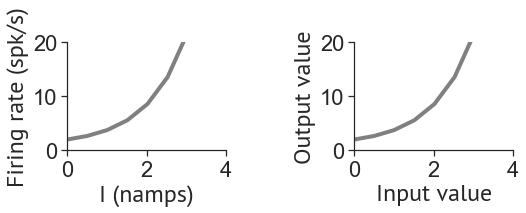
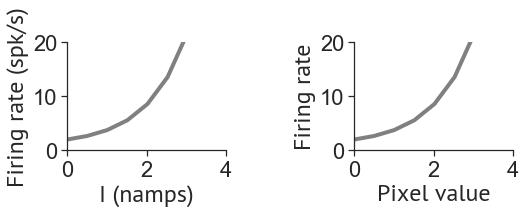
Full draft complete

Changed region(s): [[0.5475, 0.1408, 0.6084, 0.7887], [0.6996, 0.8732, 0.943, 0.9577]]

diff --git a/talk.tex b/talk.tex
@@ -57,7 +57,7 @@
 \end{columns}
 \end{frame}
 
-\begin{frame}[fragile]{Nine recognition.}
+\begin{frame}[fragile]{What are ANNs?}
 \begin{columns}
 \column{0.5\textwidth}
 \begin{figure}
@@ -71,7 +71,7 @@
 \end{frame}
 
 
-\begin{frame}[fragile]{Digit recognition.}
+\begin{frame}[fragile]{What are ANNs?}
 \begin{columns}
 \column{0.5\textwidth}
 \centering
@@ -82,7 +82,7 @@
 \end{columns}
 \end{frame}
 
-\begin{frame}[fragile]{Digit recognition.}
+\begin{frame}[fragile]{What are ANNs?}
 \begin{columns}
 \column{0.5\textwidth}
 \centering
@@ -93,35 +93,44 @@
 \end{columns}
 \end{frame}
 
-\begin{frame}[fragile]{Digit recognition.}
+\begin{frame}[fragile]{What are ANNs?}
 \begin{columns}
 \column{0.5\textwidth}
 \centering
-\includegraphics[scale=0.5]{images/nine_wx.png} 
+% \includegraphics[scale=0.5]{images/nine_wx.png} 
 \column{0.5\textwidth}
 \centering
  $\sum w_{ij} x_{ij} + \alert{b_i} = 9$
 \end{columns}
 \end{frame}
 
-\begin{frame}[fragile]{Digit recognition.}
+\begin{frame}[fragile]{What are ANNs?}
 \begin{columns}
 \column{0.5\textwidth}
 \centering
-\includegraphics[scale=0.5]{images/nine_wx.png} 
+% \includegraphics[scale=0.5]{images/nine_wx.png} 
 \column{0.5\textwidth}
 \centering
  $\alert{\phi}(\sum w_{ij} x_{ij} + b_i) = 9$
 \end{columns}
 \end{frame}
 
-\begin{frame}[fragile]{Digit recognition.}
+\begin{frame}[fragile]{What are ANNs?}
 \begin{figure}
     \centering
-    \includegraphics[scale=0.5]{images/phi.png}
-    \caption{FI-curve (right) $\approx$ $\alert{\phi}$ nonlinearity (left)}
+    \includegraphics[scale=0.4]{images/phi.png}
+    \caption{\textit{FI}-curve (left) $\approx$ $\alert{\phi}$ nonlinearity (right)}
 \end{figure}
+\end{frame}
 
+\begin{frame}[fragile]{What are ANNs?}
+\begin{figure}
+    \centering
+    \includegraphics[scale=0.4]{images/deep.png}
+    \caption{
+    \alert{A deep ANN network}. Each box is a \textit{layer}: $\phi (\sum w_{ij} x_{ij} + b_i)$
+    }
+\end{figure}
 \end{frame}
 
 % ---------------------------------------------------------
